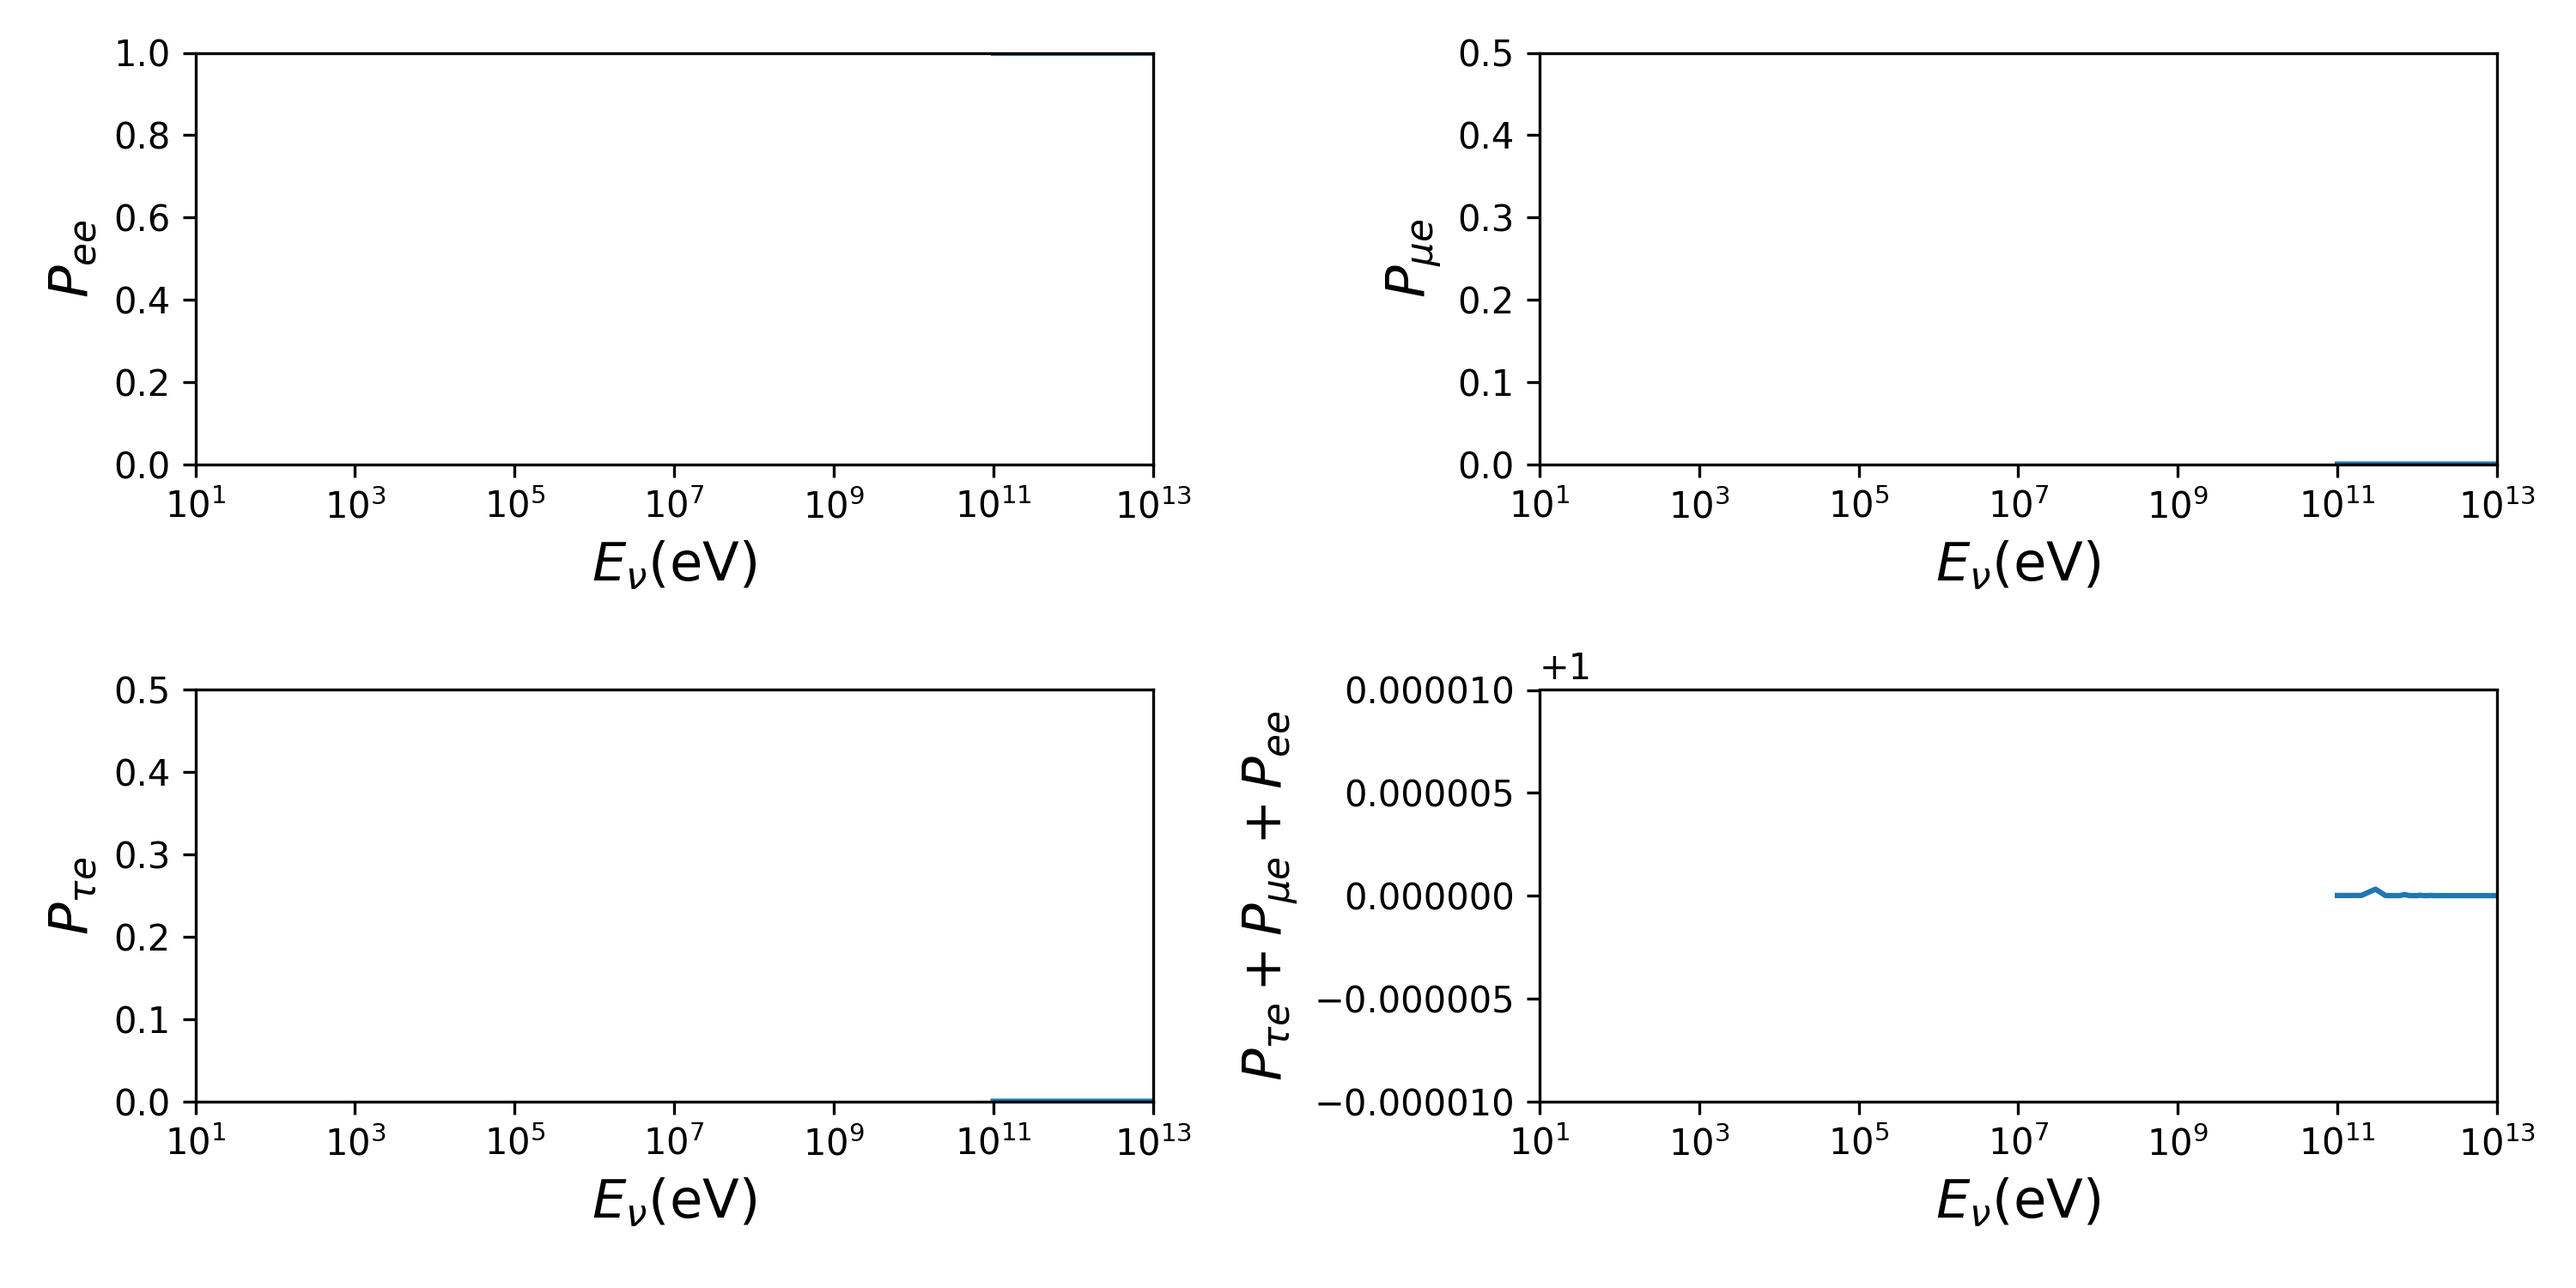
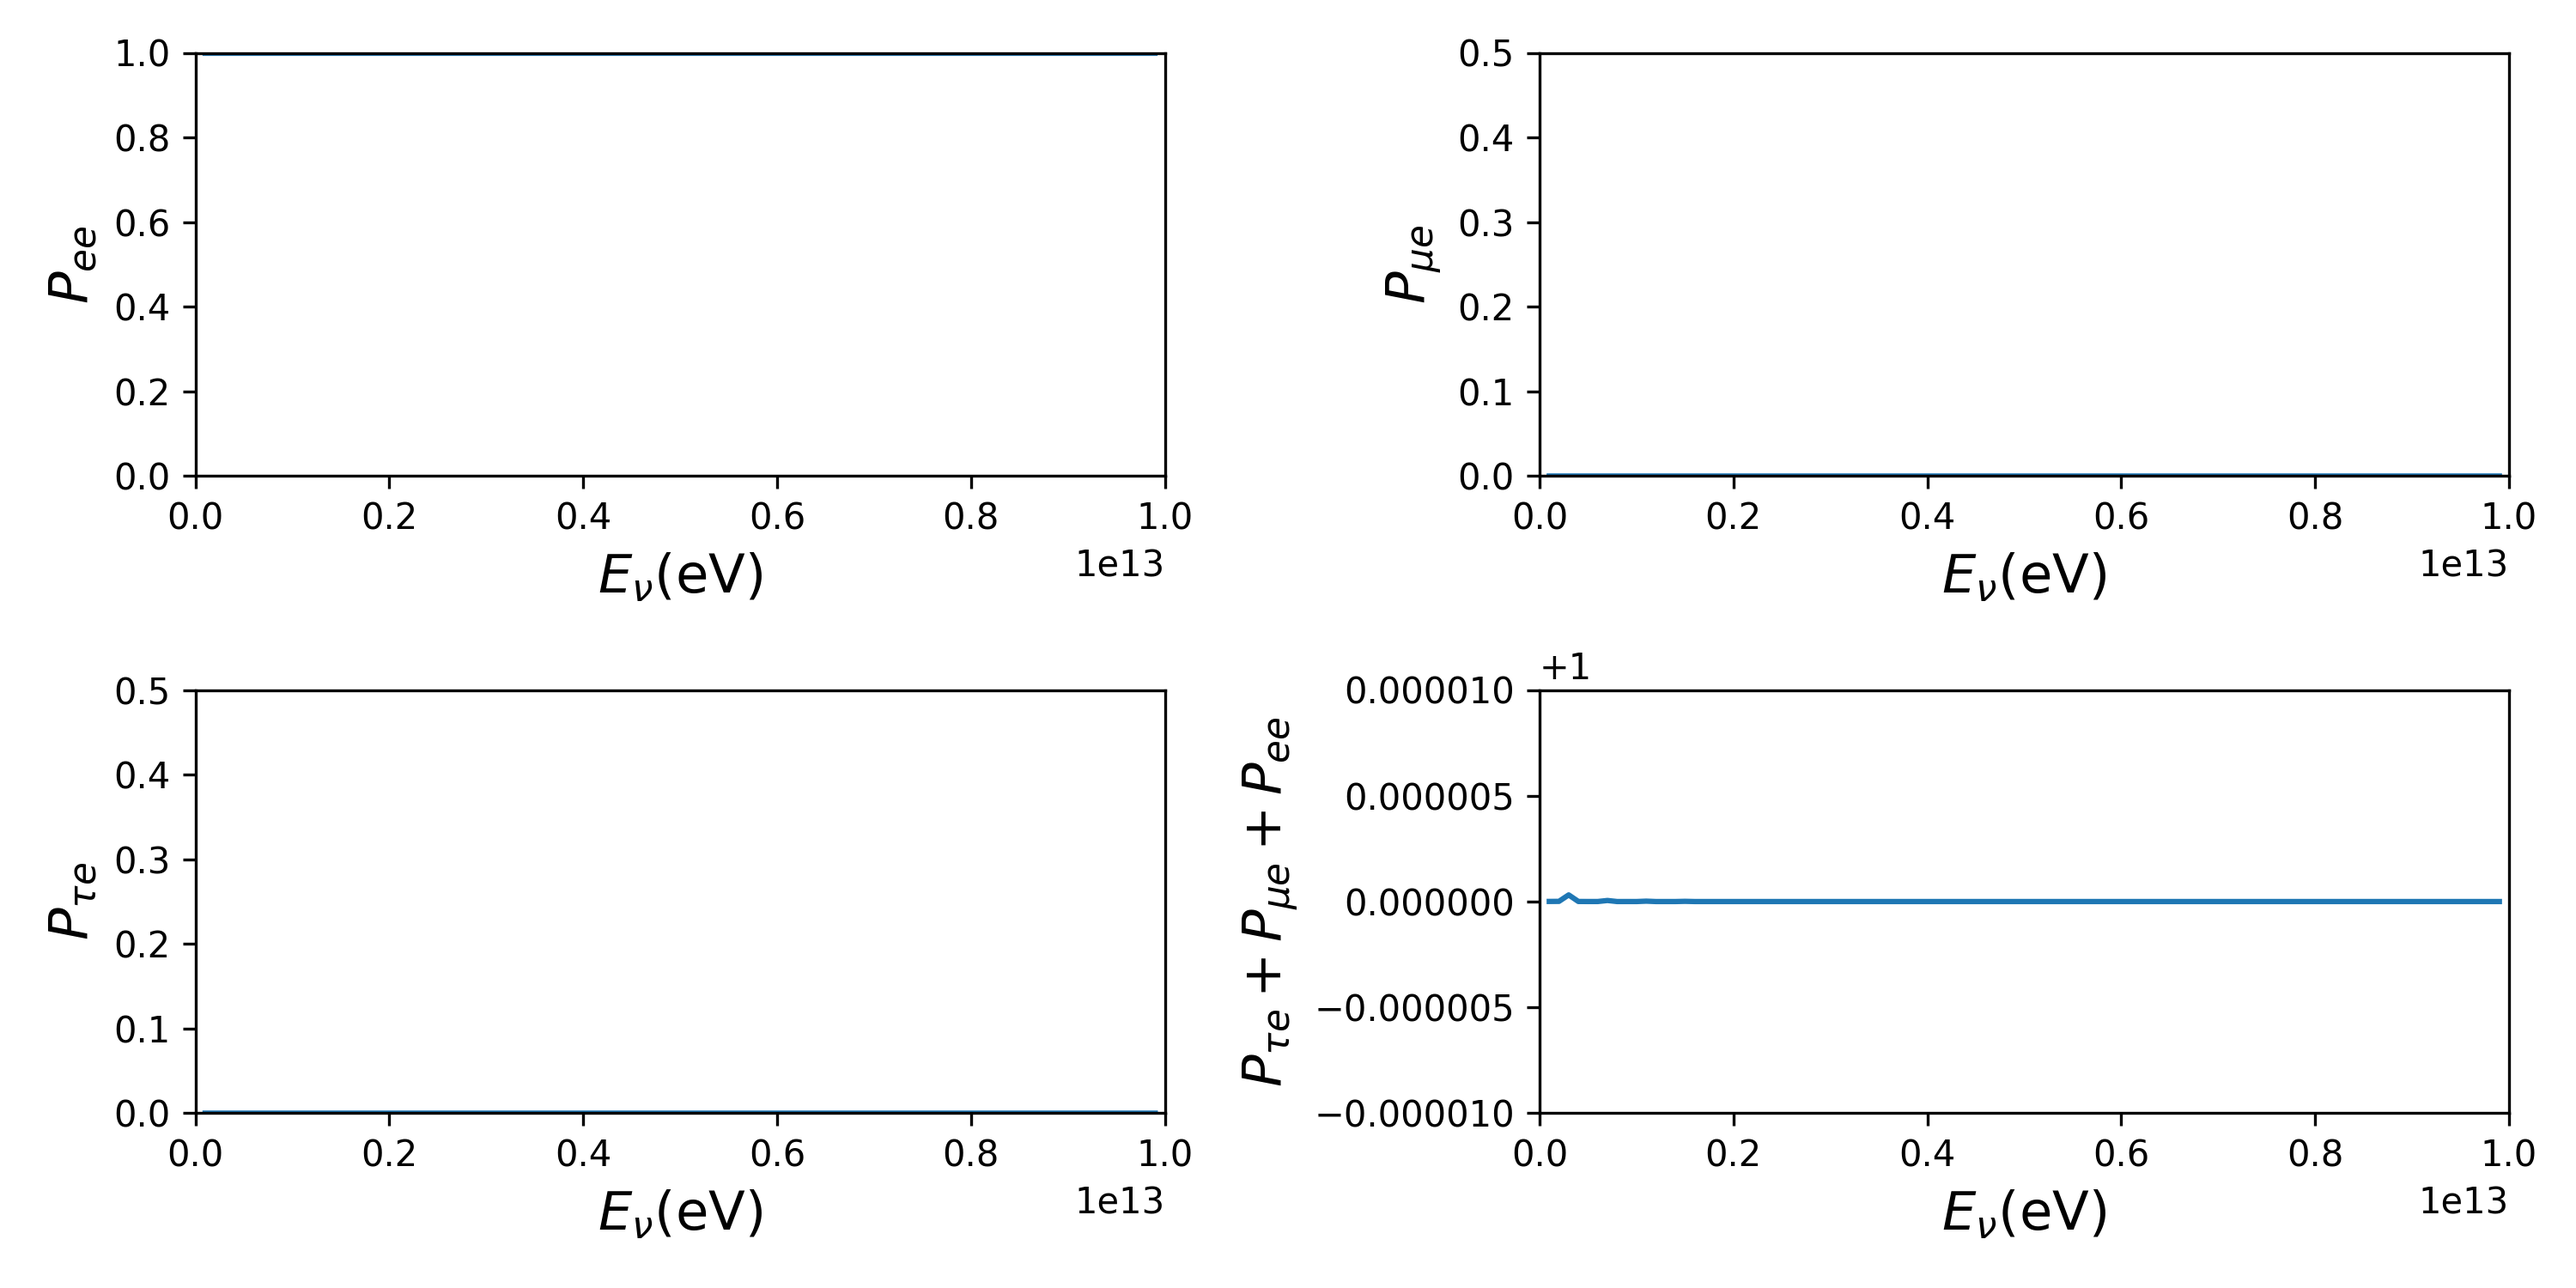
sun cluster

diff --git a/uandino_v02/uandino_v02.cpp b/uandino_v02/uandino_v02.cpp
@@ -106,7 +106,7 @@ vector<double> linspace(double min, double max, int arraylen){
   /*Returns a vector of doubles of len arraylen whose elements are linearly spaced from min to max*/
   vector<double> to_return;
   to_return.reserve(arraylen);
-	double step=(max-min)/arraylen;
+	double step=double(max-min)/arraylen;
 	for(int i=0; i<=arraylen; i++){
 		to_return.push_back(min+i*step);
 	}
@@ -432,14 +432,14 @@ void calculateProbabilities(){
 	int Steps=100000000; //Number of spatial steps.
   float step_len = float(abs(coord_end-coord_init))/Steps; //Longitude of each step in km.
   cout << "each step is: " << step_len << endl;
- /* //Save a logspaced array with the energies.
+ //Save a logspaced array with the energies.
 	double EnergyLins[N];
-	vector<double> exps = linspace(1, 13, N);
+	vector<double> exps = linspace(3, 12, N);
 	for(int i=0;i<N;i++){
 		EnergyLins[i]=pow(10, exps[i]);
 	}
-*/
-  vector<double> EnergyLins = linspace(100, 1e13, N);
+
+  //vector<double> EnergyLins = linspace(100, 1e13, N);
 
 	//omp_set_num_threads(4);//Number of threads to use.
 	int i,k;

diff --git a/uandino_v02/results/100E_sun_100MS.282966.clustermaster.uniandes.edu.co/plotTheThing.py b/uandino_v02/results/100E_sun_100MS.282966.clustermaster.uniandes.edu.co/plotTheThing.py
@@ -23,7 +23,7 @@ ax[1, 1].set_ylabel('$P_{\\tau e}+P_{\mu e}+ P_{e e}$', fontsize=15)
 
 for i in range(2):
     for k in range(2):
-        ax[i,k].set_xscale('log')
+        #ax[i,k].set_xscale('log')
         ax[i,k].set_xlabel('$E_{\\nu}$(eV)', fontsize=15)
         ax[i,k].set_xlim(1e1, 1e13)
 ax[1,1].set_ylim(1-0.00001, 1+0.00001)
